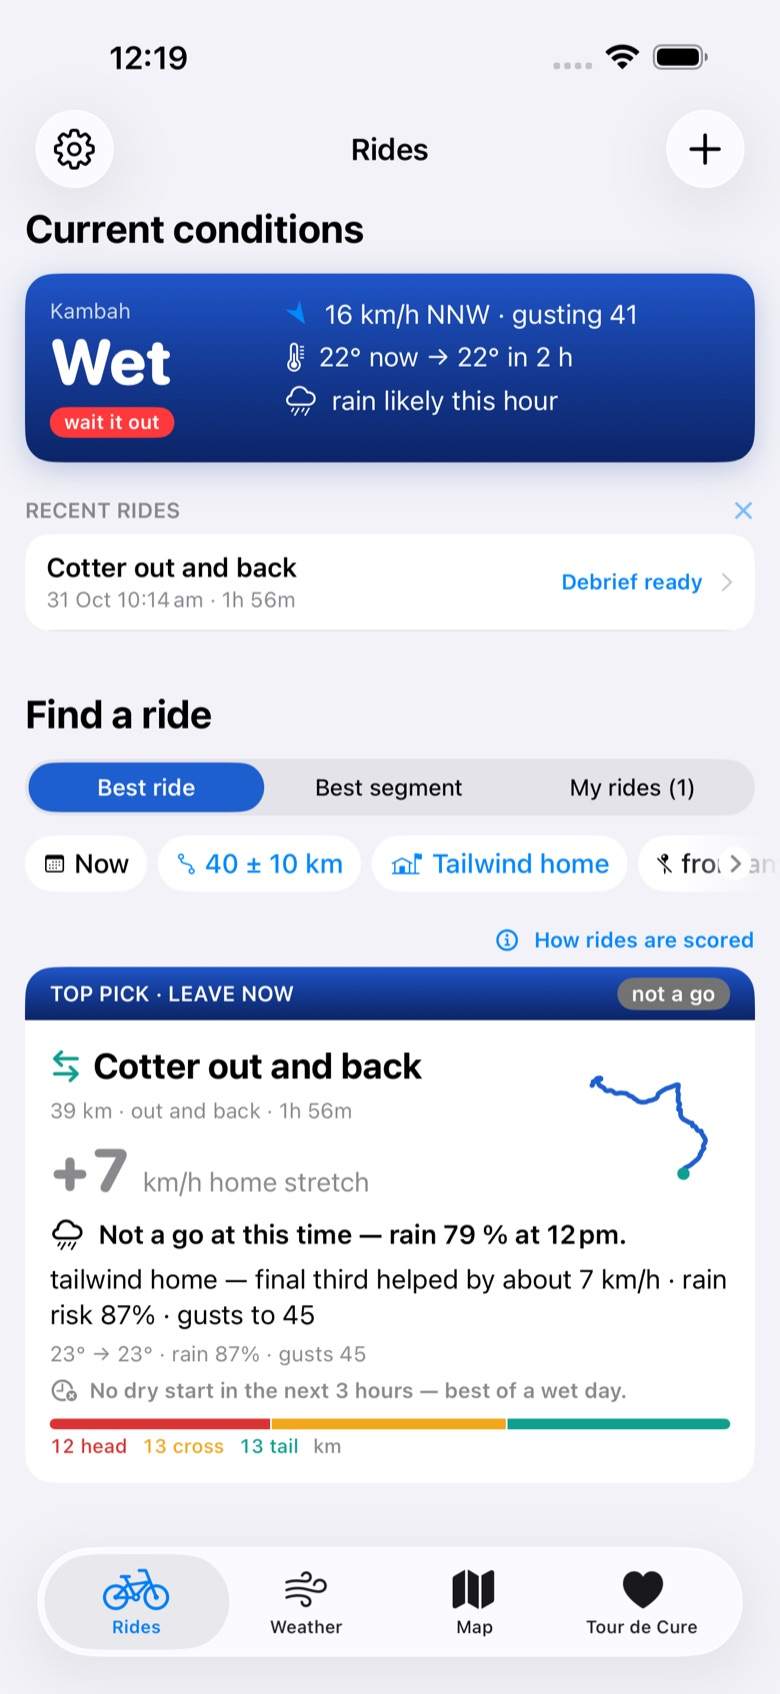
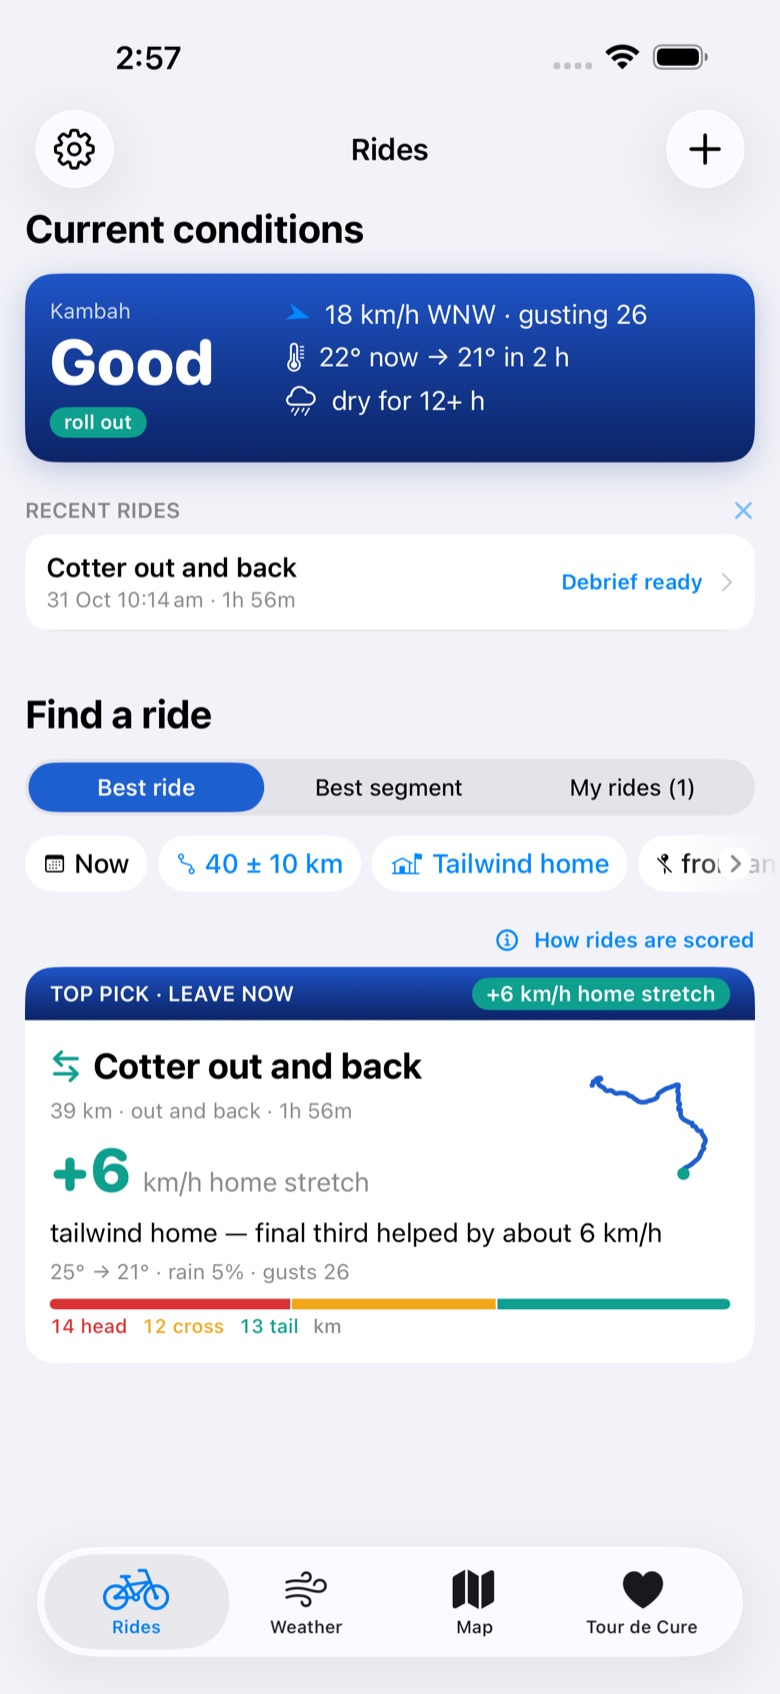
The showcase walk: TEST_RUNNER_SHOWCASE=1 stages a dry westerly day and a mature shelter map for pictures of the app in use; the join page's pictures retaken from it, with the Best segment list beside the segment's forecast
DEBUG only: DebugFixtures -showcase, one hook in OpenMeteo.getStatus (debugStage). ShowcaseTests pins that only
a forecast answer from today on is staged. The page says its times and forecast are examples. John's own edits
to the page's wording are included. DESIGN §12, PLAN, CLAUDE.md. Not published.

diff --git a/join.html b/join.html
@@ -3,9 +3,9 @@
 <meta charset="utf-8">
 <title>RideWinds — join the beta</title>
 <meta name="viewport" content="width=device-width,initial-scale=1">
-<meta name="description" content="RideWinds names the day and hour the wind is behind you, on your segments and your routes, and after the ride tells you what the wind really did. Join the iPhone beta.">
+<meta name="description" content="RideWinds names the day and hour the wind is behind you, on your segments and your routes, and after the ride tells you how much the wind really helped. Join the iPhone beta.">
 <meta property="og:title" content="RideWinds — join the beta">
-<meta property="og:description" content="You train for it. You fuel for it. Now pick the wind for it. The hour your PR is on, and after the ride: was it the wind, or was it you?">
+<meta property="og:description" content="You train for it. You fuel for it. Now pick the wind for it. The hour your PR is on, and after the ride: was it the wind, or was it just you?">
 <meta property="og:image" content="https://jeebers777.github.io/ridewinds-site/img/segment.jpg">
 <style>
 :root{--ink:#16202e;--soft:#5b6676;--bg:#f4f6fa;--card:#fff;--blue:#1e5fd0;--line:#dfe4ec}
@@ -54,12 +54,15 @@ footer{max-width:60rem;margin:0 auto;padding:0 1rem 3rem;color:var(--soft);font-
 
 <main>
   <section>
-    <div class="shot"><img src="img/segment.jpg" width="780" height="1695" alt="A segment's forecast: plus 7 km/h tailwind tomorrow at 5 pm, 5 seconds under your PR, and the tailwind hour by hour for four days"></div>
+    <div class="shot two">
+      <img src="img/best-segment.jpg" width="780" height="1695" alt="Best segment: the best tailwind in the next three days, Tuesday 3 pm, on Cotter Climb">
+      <img src="img/segment.jpg" width="780" height="1695" alt="A segment's forecast: plus 8 km/h tailwind Tuesday at 3 pm, 5 seconds under your PR, and the tailwind hour by hour">
+    </div>
     <div>
       <p class="kicker">Before a hard effort</p>
       <h2>The hour your PR is on</h2>
-      <p>Nobody going for a record leaves training or food to chance. The wind was the one thing left over. A tailwind is worth seconds on a segment, and a headwind takes more than that away.</p>
-      <p>RideWinds ranks the segments on your rides by the wind coming, names the hour, and says what it is worth: "Tomorrow 5 pm, +7 km/h tailwind, 5 s under your PR."</p>
+      <p>Nobody going for a record leaves training or nutrition to chance. So why let the wind be an oversight. A tailwind is worth seconds on a segment, and a headwind can take more than that away.</p>
+      <p>RideWinds ranks the segments on your rides by the wind that's forecast', names the hour, and says what that wind is worth: "Tuesday 3 pm, +8 km/h tailwind, 5 s under your PR." It allows for the shelter on that road, from your own rides.</p>
       <p class="note">Segments need a Strava connection. Predicted times are estimates.</p>
     </div>
   </section>
@@ -73,20 +76,20 @@ footer{max-width:60rem;margin:0 auto;padding:0 1rem 3rem;color:var(--soft);font-
       <p class="kicker">After the ride</p>
       <h2>Was it the wind, or was it you?</h2>
       <p>Every ride gets a debrief: what was forecast, what blew over the district, and what reached you on the road. "The wind cost you about 7 minutes."</p>
-      <p>So a slow day is no longer a mystery, and a fast one is properly yours. Share the file from your head unit, or connect Strava and the app finds the ride.</p>
+      <p>So a hard, slow day is no longer a mystery, and a fast one is properly yours. Share the file from your head unit, or connect Strava and the app finds the ride.</p>
     </div>
   </section>
 
   <section>
     <div class="shot two">
-      <img src="img/best-ride.jpg" width="780" height="1695" alt="The Rides tab: current conditions, and the top pick with its tailwind home and rain risk">
+      <img src="img/best-ride.jpg" width="780" height="1695" alt="The Rides tab: good conditions, and the top pick with a 6 km/h tailwind on the home stretch">
       <img src="img/ride-map.jpg" width="780" height="1695" alt="A ride on the map, coloured by headwind, crosswind and tailwind, with the wind drawn over it">
     </div>
     <div>
       <p class="kicker">Every other day</p>
       <h2>Which ride, which way, and when</h2>
       <p>Not chasing anything today? Best ride picks which of your routes to do, which way round, and when to leave, so the headwind comes while you are fresh.</p>
-      <p>The map colours every stretch for the hour you will be on it. It also says when not to go: the pick shown here is a wet day.</p>
+      <p>The map colours every stretch for the hour you will be on it. When it is wet or too windy, it says wait.</p>
     </div>
   </section>
 
@@ -104,6 +107,7 @@ footer{max-width:60rem;margin:0 auto;padding:0 1rem 3rem;color:var(--soft);font-
 
 <footer>
   <p>All proceeds from the sale of the app go to <a href="https://signaturetour.tourdecure.com.au/john-dietz">Tour de Cure</a>, after GST, Apple's commission and the base app's running costs. The beta is free.</p>
+  <p>The screens show a sample ride near Canberra; the times and the forecast in them are examples.</p>
   <p><a href="index.html">RideWinds</a> · <a href="privacy.html">Privacy policy</a></p>
 </footer>
 </html>
